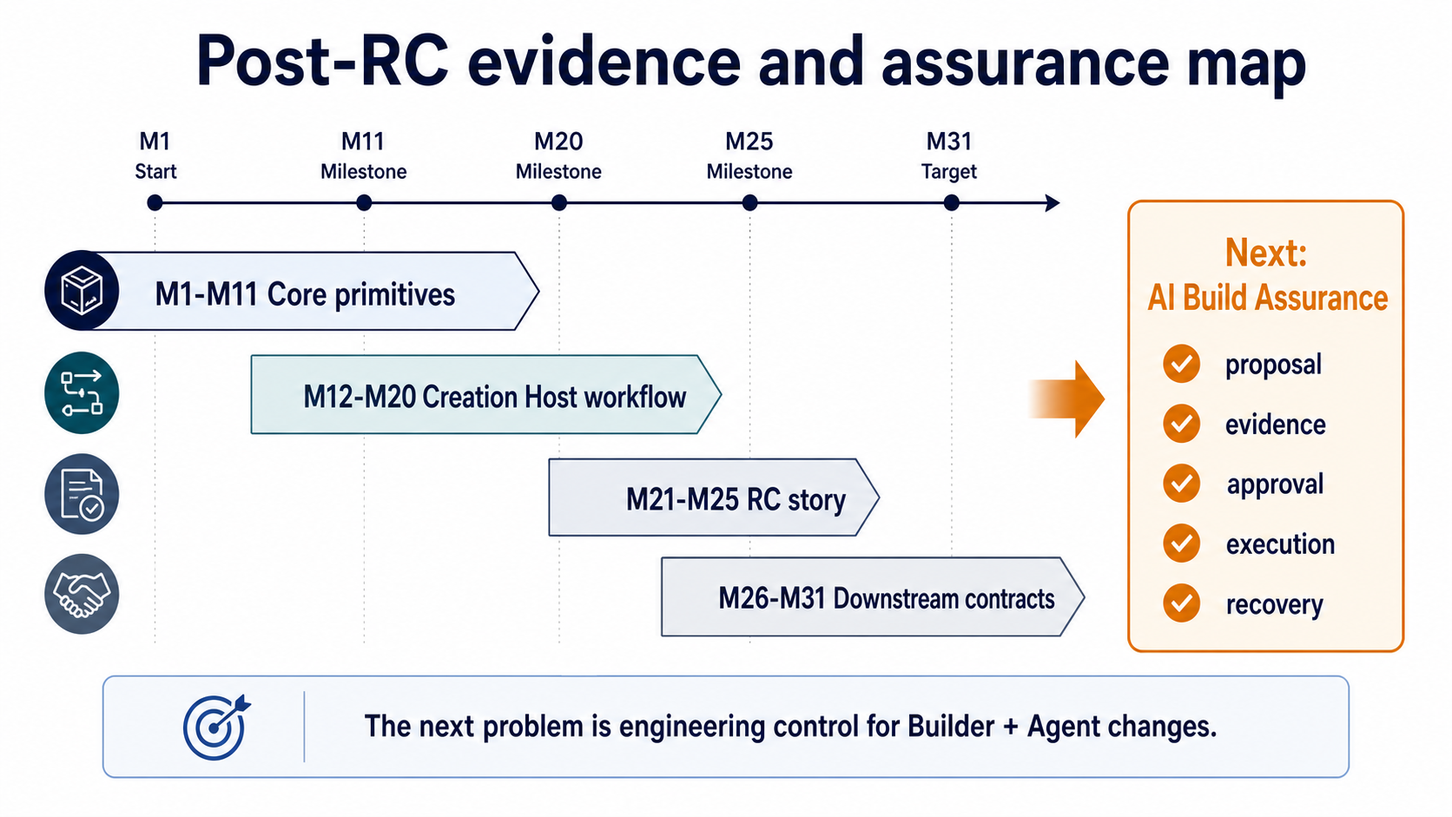
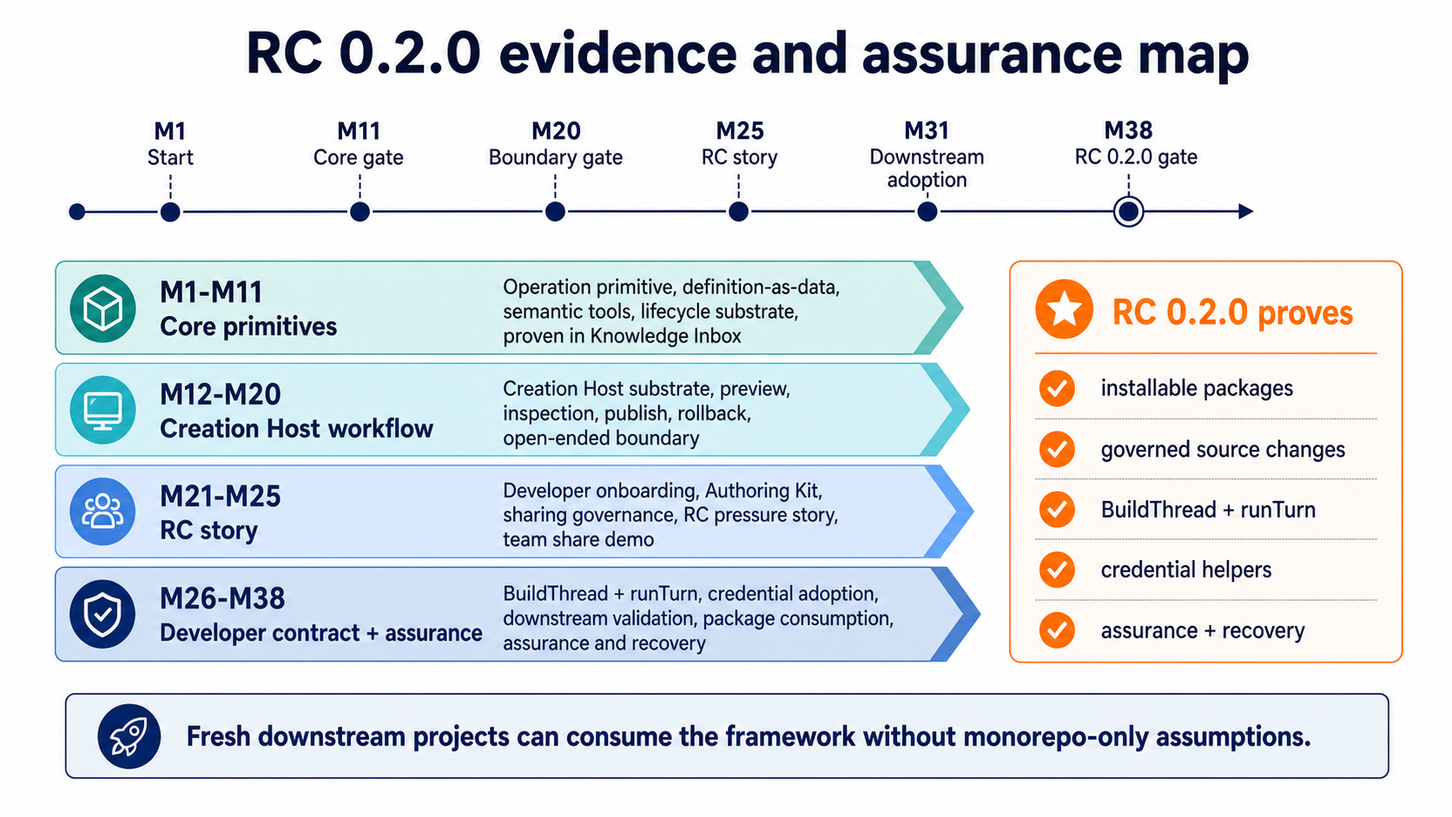
docs: refine rc 0.2.0 team share

diff --git a/docs/architecture/team-share-demo.zh-CN.md b/docs/architecture/team-share-demo.zh-CN.md
@@ -1,12 +1,12 @@
 # Pneuma 团队分享材料
 
-**日期：** 2026-05-10
-**状态：** M37 之后的当前 post-RC 团队分享材料
+**日期：** 2026-05-11
+**状态：** RC 0.2.0 团队分享材料；tag 等待 owner 确认
 **受众：** 对 Pneuma 零预备知识、但理解普通软件产品的团队成员
 **形式：** 45-60 分钟团队分享，可选本地 demo
 **English version:** [team-share-demo.md](./team-share-demo.md)
 
-这是一份在 RC 接受和 M26-M38 stabilization、Build Assurance adoption 以及 package-consumption gate 之后，从顶层目标向下解释 Pneuma 的团队同步材料。
+这是一份在 RC 接受、M26-M38 stabilization、Build Assurance adoption、package-consumption gating 以及 fresh downstream validation 之后，从顶层目标向下解释 Pneuma 的团队同步材料。
 
 如果是 Developer 自己第一次阅读，先从 [从这里开始：构建 Creation Host](../developer/start-here.zh-CN.md) 进入。这份文档用于团队讨论。
 
@@ -26,6 +26,13 @@ End User 使用 Published Application。
 ```text
 Pneuma 不是在证明 agent 会改文件。
 Pneuma 在证明 app evolution 可以成为一个受治理的软件 primitive。
+```
+
+0.2.0 这一版需要额外记住的是：
+
+```text
+framework 现在可以被一个全新的下游 Creation Host 作为 package 消费。
+剩下的问题是 productization，而不是核心模型是否自洽。
 ```
 
 ## 1. 为什么需要这个项目
@@ -176,19 +183,22 @@ lifecycle remains a runtime subsystem
 | **M21-M25** | Developer onboarding、Authoring Kit、Sharing Governance、RC pressure、Alice/Bob/Charlie/Dave 让 RC 故事可以被解释和测试。 |
 | **M26-M38** | Code Change Lane、runtime diagnostics、HostExtension slots、AgentBackend `runTurn`、credential utilities、downstream adoption、visible/durable Build Change Assurance、approval-time review packets、recovery drill matrices、downstream adoption guidance 和 package-consumption gating 稳定了 post-RC developer contract。 |
 
-M37 当前技术健康度：
+RC 0.2.0 当前技术健康度：
 
 ```text
 bun test
-1274 pass
+1280 pass
 0 fail
-4745 expect() calls
+4755 expect() calls
 
 bun run typecheck
 exit 0
+
+bun run test:package-consumption
+exit 0
 ```
 
-这不代表 production SaaS 已完成。它代表 framework 已经有一条自洽的 developer-facing RC line，并且 post-RC contract surface 对真实 Creation Host 更清楚，包括 Builder + Agent assurance lane。
+这不代表 production SaaS 已完成。它代表 framework 已经有一条自洽的 developer-facing RC line、一个 package-consumable 的 0.2.0 contract surface，以及面向真实 Creation Host 的 Builder + Agent assurance lane。
 
 ## 7. Demo 路径
 
@@ -256,7 +266,7 @@ Walkthrough：
 
 > M18 证明四制品 workflow 可以承载 open-ended UI/module state。ADR-0031 和 ADR-0035 保持 framework 边界诚实：这些仍是 Host-owned artifacts，除非未来 ADR 把某种重复形态提升为 framework definition rows。
 
-### Walkthrough C：Post-RC developer contracts
+### Walkthrough C：RC 0.2.0 developer contract
 
 打开这些文档：
 
@@ -266,9 +276,18 @@ Walkthrough：
 4. [Runtime Composition 中文版](../developer/runtime-composition.zh-CN.md) - mode、boot options、internal token pattern、readiness helpers。
 5. [HostExtension Slots 中文版](../developer/host-extension-slots.zh-CN.md) - portable Host-owned extension bundles。
 6. [Host Credential Broker Utilities 中文版](../developer/credential-broker.zh-CN.md) - session cookies、OAuth state、credential refs、no-secret rebinding evidence。
-7. [AI Build Assurance DDD Review 中文版](./spec/ai-build-assurance-domain-review.zh-CN.md) - M37 之后当前的 assurance-domain 锚点。
+7. [AI Build Assurance DDD Review 中文版](./spec/ai-build-assurance-domain-review.zh-CN.md) - 当前已进入 RC 0.2.0 contract 的 assurance-domain 锚点。
 8. [Build Assurance Adoption Guide 中文版](../developer/build-assurance-adoption.zh-CN.md) - Host 如何逐步采用 assurance cases、review packets、stores 和 recovery drills。
 9. [Downstream Validation Brief 中文版](../developer/downstream-validation-brief.zh-CN.md) - 一个新的下游项目应该构建什么、报告什么。
+10. [RC 0.2.0 Snapshot 中文版](./release-candidate-0.2.0-snapshot.zh-CN.md) - package-consumption gate、full verification 和 downstream validation evidence。
+
+0.2.0 还需要团队明确理解一件事：
+
+```text
+framework 现在可以从 monorepo 外部，被一个全新的 Bun/TypeScript Creation Host 消费。
+```
+
+package-consumption gate 会把 developer-facing packages 复制到一个 isolated 临时目录，用 `file:` dependencies 安装进一个新的 consumer，导入 focused public subpaths，运行 `scaffold-host`、运行 `doctor-host`、执行 smoke program，并 typecheck consumer。第二个全新的下游 Host，Release Radar Studio，又用同一方向验证了一次，没有报告 material framework blocker。
 
 ## 8. 推荐分享节奏
 
@@ -280,7 +299,7 @@ Walkthrough：
 | 20-30 min | 治理闭环和契约栈 | 把 primitives 映射到 authority、evidence、runtime、source-change、release。 |
 | 30-42 min | Demo A | 展示 Alice 的 Developer cognition path 和 Bob/Charlie/Dave outcomes。 |
 | 42-52 min | Demo B | 展示 open-ended app pressure。 |
-| 52-58 min | Walkthrough C | 解释 post-RC contract surface。 |
+| 52-58 min | Walkthrough C | 解释 RC 0.2.0 package-consumable contract surface。 |
 | 58-60 min | Boundary | 对齐当前证据和下一次具体下游压力测试。 |
 
 讲解规则：
@@ -310,9 +329,9 @@ Walkthrough：
 
 不是。framework 已经有正确的 authority shape 和 local/runtime hardening evidence，但 production IAM、tenant administration、secret management、retention、assignment、hosted governance workflows 和长期运营证明都属于后续 productization work。
 
-### 什么会构成下一个 release tag 的理由？
+### 什么会构成 RC 0.2.0 tag 的理由？
 
-选定一条 post-RC lane，完成 executable evidence、更新文档，并且没有新的顶层边界混淆。M32-M37 已经收口了第一段围绕受治理 Builder + Build Agent changes 的 AI Build Assurance lane。下一次 tag 应该由具体下游压力来证明，而不是默认继续增加抽象 assurance layer。
+owner 接受 verification report 时，0.2.0 tag 就有理由成立：full suite 绿、package-consumption gate 绿、文档已更新、fresh downstream validation 没有 material framework blocker。未来 tag 仍然应该由具体下游压力证明，而不是默认继续增加抽象 assurance layer。
 
 ## Useful Links
 
@@ -322,3 +341,4 @@ Walkthrough：
 - [Creation Host Model 中文版](./spec/creation-host-model.zh-CN.md)
 - [AI Build Assurance DDD Review 中文版](./spec/ai-build-assurance-domain-review.zh-CN.md)
 - [Release Candidate Snapshot 中文版](./release-candidate-snapshot.zh-CN.md)
+- [RC 0.2.0 Snapshot 中文版](./release-candidate-0.2.0-snapshot.zh-CN.md)

diff --git a/docs/architecture/team-share-demo.md b/docs/architecture/team-share-demo.md
@@ -1,12 +1,12 @@
 # Pneuma Team Share Package
 
-**Date:** 2026-05-10
-**Status:** Current post-M37 team-share package
+**Date:** 2026-05-11
+**Status:** RC 0.2.0 team-share package; tag pending owner confirmation
 **Audience:** teammates with zero Pneuma context who understand normal software products
 **Format:** 45-60 minute team share with optional local demos
 **Chinese version:** [team-share-demo.zh-CN.md](./team-share-demo.zh-CN.md)
 
-This is the top-down share package for explaining Pneuma after RC acceptance and the M26-M38 stabilization, Build Assurance adoption, and package-consumption gate work.
+This is the top-down share package for explaining Pneuma after RC acceptance, M26-M38 stabilization, Build Assurance adoption, package-consumption gating, and fresh downstream validation.
 
 For a Developer's self-serve reading path, start with [Start Here: Build A Creation Host](../developer/start-here.md). This document is for a team conversation.
 
@@ -26,6 +26,13 @@ The second sentence they should remember:
 ```text
 Pneuma is not proving that an agent can edit files.
 It is proving that app evolution can become a governed software primitive.
+```
+
+The 0.2.0-specific takeaway:
+
+```text
+The framework is now package-consumable by a fresh downstream Creation Host.
+The remaining question is productization, not whether the core model is coherent.
 ```
 
 ## 1. Why This Exists
@@ -176,19 +183,22 @@ The project did not jump directly to a polished demo. It built a proof ladder:
 | **M21-M25** | Developer onboarding, Authoring Kit, Sharing Governance, RC pressure, and Alice/Bob/Charlie/Dave made the RC story explainable and testable. |
 | **M26-M38** | Code Change Lane, runtime diagnostics, HostExtension slots, AgentBackend `runTurn`, credential utilities, downstream adoption, visible/durable Build Change Assurance, approval-time review packets, recovery drill matrices, downstream adoption guidance, and package-consumption gating stabilized the post-RC developer contract. |
 
-Current technical health from M37:
+Current technical health for RC 0.2.0:
 
 ```text
 bun test
-1274 pass
+1280 pass
 0 fail
-4745 expect() calls
+4755 expect() calls
 
 bun run typecheck
 exit 0
+
+bun run test:package-consumption
+exit 0
 ```
 
-This does not mean production SaaS is done. It means the framework has a coherent developer-facing RC line and a clearer post-RC contract surface for real Creation Hosts, including the Builder + Agent assurance lane.
+This does not mean production SaaS is done. It means the framework has a coherent developer-facing RC line, a package-consumable 0.2.0 contract surface, and a clearer Builder + Agent assurance lane for real Creation Hosts.
 
 ## 7. Demo Path
 
@@ -256,7 +266,7 @@ Key line:
 
 > M18 proves the four-artifact workflow can carry open-ended UI/module state. ADR-0031 and ADR-0035 keep the boundary honest: these are Host-owned artifacts unless a later ADR promotes a repeated shape into framework definition rows.
 
-### Walkthrough C: Post-RC developer contracts
+### Walkthrough C: RC 0.2.0 developer contract
 
 Open these documents:
 
@@ -266,9 +276,18 @@ Open these documents:
 4. [Runtime Composition](../developer/runtime-composition.md) - mode, boot options, internal token pattern, readiness helpers.
 5. [HostExtension Slots](../developer/host-extension-slots.md) - portable Host-owned extension bundles.
 6. [Host Credential Broker Utilities](../developer/credential-broker.md) - session cookies, OAuth state, credential refs, no-secret rebinding evidence.
-7. [AI Build Assurance DDD Review](./spec/ai-build-assurance-domain-review.md) - the current assurance-domain anchor after M37.
+7. [AI Build Assurance DDD Review](./spec/ai-build-assurance-domain-review.md) - the current assurance-domain anchor now carried into the RC 0.2.0 contract.
 8. [Build Assurance Adoption Guide](../developer/build-assurance-adoption.md) - how a Host adopts assurance cases, review packets, stores, and recovery drills incrementally.
 9. [Downstream Validation Brief](../developer/downstream-validation-brief.md) - what a fresh downstream project should build and report.
+10. [RC 0.2.0 Snapshot](./release-candidate-0.2.0-snapshot.md) - package-consumption gate, full verification, and downstream validation evidence.
+
+0.2.0 adds one more thing the team should explicitly understand:
+
+```text
+The framework can now be consumed from outside the monorepo by a fresh Bun/TypeScript Creation Host.
+```
+
+The package-consumption gate copies the developer-facing packages to an isolated temporary directory, installs them into a new consumer with `file:` dependencies, imports focused public subpaths, runs `scaffold-host`, runs `doctor-host`, executes a smoke program, and typechecks the consumer. A second fresh downstream Host, Release Radar Studio, then validated the same direction with no material framework blocker.
 
 ## 8. Recommended Share Run
 
@@ -280,7 +299,7 @@ Open these documents:
 | 20-30 min | Governed loop and contract stack | Map primitives to authority, evidence, runtime, source-change, and release. |
 | 30-42 min | Demo A | Show Alice's Developer cognition path and Bob/Charlie/Dave outcomes. |
 | 42-52 min | Demo B | Show open-ended app pressure. |
-| 52-58 min | Walkthrough C | Explain the post-RC contract surface. |
+| 52-58 min | Walkthrough C | Explain the RC 0.2.0 package-consumable contract surface. |
 | 58-60 min | Boundary | Align on the current evidence and the next concrete downstream pressure test. |
 
 Presenter rules:
@@ -310,9 +329,9 @@ Because direct file edits make UI action, Agent tool-call, policy, approval evid
 
 No. The framework now has the right authority shape and local/runtime hardening evidence, but production IAM, tenant administration, secret management, retention, assignment, hosted governance workflows, and long-running operational proof are later productization work.
 
-### What would justify the next release tag?
+### What would justify tagging RC 0.2.0?
 
-A chosen post-RC lane should close with executable evidence, updated docs, and no new top-level boundary confusion. M32-M37 closed the first AI Build Assurance lane around governed Builder + Build Agent changes. The next tag should be justified by concrete downstream pressure, not by adding another abstract assurance layer by default.
+The 0.2.0 tag is justified when the owner accepts the verification report: full suite green, package-consumption gate green, docs updated, and fresh downstream validation reporting no material framework blocker. Future tags should still be justified by concrete downstream pressure, not by adding another abstract assurance layer by default.
 
 ## Useful Links
 
@@ -322,3 +341,4 @@ A chosen post-RC lane should close with executable evidence, updated docs, and n
 - [Creation Host Model](./spec/creation-host-model.md)
 - [AI Build Assurance DDD Review](./spec/ai-build-assurance-domain-review.md)
 - [Release Candidate Snapshot](./release-candidate-snapshot.md)
+- [RC 0.2.0 Snapshot](./release-candidate-0.2.0-snapshot.md)

diff --git a/README.md b/README.md
@@ -11,13 +11,13 @@ pneuma-framework
 
 ## Current Status
 
-The project has reached its first developer-facing release candidate line:
+The project has reached its first developer-facing release candidate line. The latest entry is prepared and verified; the tag is pending owner confirmation:
 
 ```text
-pneuma-rc-0.1.0 -> pneuma-rc-0.1.1 -> pneuma-rc-0.1.2 -> pneuma-rc-0.1.3
+pneuma-rc-0.1.0 -> pneuma-rc-0.1.1 -> pneuma-rc-0.1.2 -> pneuma-rc-0.1.3 -> pneuma-rc-0.2.0
 ```
 
-`pneuma-rc-0.1.0` was the first accepted RC. `pneuma-rc-0.1.1` surfaced hidden runtime, authoring, and rollout conventions discovered while building an external DevBoard Studio Creation Host. `pneuma-rc-0.1.2` added BuildThread as the framework-owned semantic transcript for Builder conversation. `pneuma-rc-0.1.3` added the executable Code Change Lane for governed draft source changes.
+`pneuma-rc-0.1.0` was the first accepted RC. `pneuma-rc-0.1.1` surfaced hidden runtime, authoring, and rollout conventions discovered while building an external DevBoard Studio Creation Host. `pneuma-rc-0.1.2` added BuildThread as the framework-owned semantic transcript for Builder conversation. `pneuma-rc-0.1.3` added the executable Code Change Lane for governed draft source changes. `pneuma-rc-0.2.0` is the prepared developer-contract roll-up: M26-M38, focused public package subpaths, downstream-safe `doctor-host`, and a package-consumption gate for fresh external Hosts.
 
 The RC line and post-RC stabilization evidence now include:
 
@@ -43,6 +43,7 @@ The RC line and post-RC stabilization evidence now include:
 - M35: Build Change Review Packet.
 - M36: Recovery Drill Matrix.
 - M37: Build Assurance Downstream Readiness.
+- M38: Package Consumption + RC 0.2.0 Gate.
 
 The RC claim is narrow: the core model is coherent enough for Developers to start building Creation Hosts and pressure-testing real product shapes. It is not a production SaaS platform.
 
@@ -115,6 +116,8 @@ Start here if you are a Developer:
 - [`docs/developer/upgrading-to-rc-0.1.1.md`](./docs/developer/upgrading-to-rc-0.1.1.md) — downstream upgrade checklist from RC 0.1.0 to RC 0.1.1.
 - [`docs/developer/upgrading-to-rc-0.1.2.md`](./docs/developer/upgrading-to-rc-0.1.2.md) — downstream upgrade checklist for adopting BuildThread.
 - [`docs/developer/upgrading-to-rc-0.1.3.md`](./docs/developer/upgrading-to-rc-0.1.3.md) — downstream upgrade checklist for adopting Code Change Lane.
+- [`docs/architecture/release-candidate-0.2.0-snapshot.md`](./docs/architecture/release-candidate-0.2.0-snapshot.md) — package-consumable developer-contract gate and verification evidence.
+- [`docs/developer/upgrading-to-rc-0.2.0.md`](./docs/developer/upgrading-to-rc-0.2.0.md) — downstream upgrade checklist for adopting the current focused subpaths and 0.2.0 utility surface.
 - [`docs/developer/build-thread.md`](./docs/developer/build-thread.md) — semantic Builder conversation transcript primitive for chat-driven Hosts.
 - [`docs/developer/code-change-lane.md`](./docs/developer/code-change-lane.md) — governed draft source-change proposal/apply/receipt lane.
 - [`docs/developer/build-assurance.md`](./docs/developer/build-assurance.md) — risk/readiness/evidence cases and the local assurance case store.
@@ -172,4 +175,4 @@ Chinese readers can use matching `.zh-CN.md` documents under `docs/developer/` a
 
 ## Current Caveat
 
-This is not a production SaaS release. Production IAM, hosted deployment, durable credential storage, compliance audit storage, zero-downtime traffic switching, Runtime Agent productization, hot reload, and broad Pneuma 2.x dogfood remain post-RC work unless a concrete milestone deliberately pulls one forward. M31 is credential-helper adoption evidence, not a hosted credential service; M37 is Build Assurance adoption readiness, not a compliance backend.
+This is not a production SaaS release. Production IAM, hosted deployment, durable credential storage, compliance audit storage, zero-downtime traffic switching, Runtime Agent productization, hot reload, and broad Pneuma 2.x dogfood remain post-RC work unless a concrete milestone deliberately pulls one forward. M31 is credential-helper adoption evidence, not a hosted credential service; M37 is Build Assurance adoption readiness, not a compliance backend; M38/RC 0.2.0 is package-consumption evidence, not a hosted distribution product.

diff --git a/docs/architecture/release-candidate-0.2.0-snapshot.md b/docs/architecture/release-candidate-0.2.0-snapshot.md
@@ -12,7 +12,7 @@ It is not a new product direction. It packages the current Developer-facing cont
 
 Prepare RC 0.2.0 as a **developer-contract release train**:
 
-- collect M26-M37 into one versioned contract;
+- collect M26-M38 into one versioned contract;
 - keep the four-layer model unchanged;
 - keep Creation Host product choices Host-owned;
 - expose local package consumption as an explicit test gate;
@@ -29,7 +29,7 @@ Prepare RC 0.2.0 as a **developer-contract release train**:
 | Agent backend turns | `AgentBackend.runTurn` over BuildThread source-of-truth turns. |
 | Credential utilities | Session cookie hashing, OAuth state, callback binding, credential refs, no-secret rebinding evidence, provider-shaped test helpers. |
 | Build Assurance | Review packets, assurance cases, durable case store, recovery drill matrix, and adoption guide. |
-| Package boundary | Developer-facing packages use local-consumable `file:` internal dependencies and a repo-external smoke gate. |
+| Package boundary | Developer-facing packages use local-consumable `file:` internal dependencies, focused public subpath exports, downstream-safe CLI diagnostics, and a repo-external smoke gate. |
 
 ## Package Consumption Gate
 
@@ -56,8 +56,10 @@ This test exists because fresh downstream projects should fail on real framework
 
 Accepted:
 
-- M26-M37 are no longer just chronological milestone evidence; they are part of the current Developer contract.
+- M26-M38 are no longer just chronological milestone evidence; they are part of the current Developer contract.
 - `workspace:*` is no longer required in developer-facing package manifests for local external consumption.
+- Focused public subpath exports are the preferred developer-facing import surface for Host contracts.
+- `doctor-host` can run from a fresh downstream install without eagerly importing unrelated core modules.
 - Provider-named BuildThread packing helpers remain available only as deprecated compatibility; provider-neutral `packBuildTurnsForRoleContent` is the core path.
 - The downstream upgrade path is documented directly in [Upgrading To RC 0.2.0](../developer/upgrading-to-rc-0.2.0.md).
 
@@ -93,5 +95,12 @@ Results:
 - typecheck: passed;
 - full suite: `1280 pass`, `0 fail`, `4755 expect() calls` across `194 files`;
 - `git diff --check`: passed.
+
+Fresh downstream validation:
+
+- a new temporary downstream Creation Host, Release Radar Studio, was built from an exported RC 0.2.0 candidate directory;
+- it consumed `@pneuma-framework/core-domain`, `@pneuma-framework/core`, `@pneuma-framework/runtime`, and `@pneuma-framework/cli` through `file:` dependencies;
+- downstream `typecheck`, unit tests, `doctor-host`, smoke runner, and a live HTTP flow passed;
+- the downstream gap log reported no material framework blocker. The only accepted follow-up was documentation-level: when validating an exported non-git candidate directory, record the candidate artifact path/version instead of a commit hash.
 
 Tagging remains a separate owner decision after this verification report.

diff --git a/docs/architecture/release-candidate-0.2.0-snapshot.zh-CN.md b/docs/architecture/release-candidate-0.2.0-snapshot.zh-CN.md
@@ -12,7 +12,7 @@
 
 准备把 RC 0.2.0 作为 **developer-contract release train**：
 
-- 将 M26-M37 收拢成一个有版本号的 contract；
+- 将 M26-M38 收拢成一个有版本号的 contract；
 - 四层模型保持不变；
 - Creation Host 的产品选择继续属于 Host；
 - 把 local package consumption 变成显式 test gate；
@@ -29,7 +29,7 @@
 | Agent backend turns | 基于 BuildThread source-of-truth turns 的 `AgentBackend.runTurn`。 |
 | Credential utilities | Session cookie hashing、OAuth state、callback binding、credential refs、no-secret rebinding evidence、provider-shaped test helpers。 |
 | Build Assurance | Review packets、assurance cases、durable case store、recovery drill matrix 和 adoption guide。 |
-| Package boundary | Developer-facing packages 使用本地可消费的 `file:` internal dependencies，并加入 repo-external smoke gate。 |
+| Package boundary | Developer-facing packages 使用本地可消费的 `file:` internal dependencies、focused public subpath exports、downstream-safe CLI diagnostics，并加入 repo-external smoke gate。 |
 
 ## Package Consumption Gate
 
@@ -56,8 +56,10 @@ bun run test:package-consumption
 
 已采纳：
 
-- M26-M37 不再只是 chronological milestone evidence，而是当前 Developer contract 的一部分。
+- M26-M38 不再只是 chronological milestone evidence，而是当前 Developer contract 的一部分。
 - developer-facing package manifests 不再要求下游通过 `workspace:*` 才能本地外部消费。
+- focused public subpath exports 是 Host contracts 的推荐开发者导入面。
+- `doctor-host` 可以从一个全新的下游安装中运行，不会急切导入无关 core 模块。
 - 带 provider 名称的 BuildThread packing helpers 只作为 deprecated compatibility 保留；core 路径是 provider-neutral `packBuildTurnsForRoleContent`。
 - 下游升级路径写入 [Upgrading To RC 0.2.0](../developer/upgrading-to-rc-0.2.0.zh-CN.md)。
 
@@ -93,5 +95,12 @@ git diff --check
 - typecheck：通过；
 - full suite：`1280 pass`、`0 fail`、`4755 expect() calls`，覆盖 `194 files`；
 - `git diff --check`：通过。
+
+Fresh downstream validation：
+
+- 一个新的临时下游 Creation Host，Release Radar Studio，从导出的 RC 0.2.0 candidate 目录开始构建；
+- 它通过 `file:` dependencies 消费 `@pneuma-framework/core-domain`、`@pneuma-framework/core`、`@pneuma-framework/runtime` 和 `@pneuma-framework/cli`；
+- 下游 `typecheck`、unit tests、`doctor-host`、smoke runner 和 live HTTP flow 均通过；
+- 下游 gap log 没有报告 material framework blocker。唯一采纳的 follow-up 是文档级：验证导出的 non-git candidate 目录时，记录 candidate artifact path/version，而不是 commit hash。
 
 tag 仍是这份 verification report 之后单独的 owner decision。

diff --git a/PRODUCT.md b/PRODUCT.md
@@ -26,13 +26,13 @@ Developer-facing framework for building local/reference Creation Hosts,
 with enough governance and assurance primitives to pressure-test real product shapes.
 ```
 
-The first release-candidate line is accepted through `pneuma-rc-0.1.3`:
+The release-candidate line is accepted through `pneuma-rc-0.1.3`, and `pneuma-rc-0.2.0` is prepared as the first package-consumable developer-contract roll-up:
 
 ```text
-pneuma-rc-0.1.0 -> 0.1.1 -> 0.1.2 -> 0.1.3
+pneuma-rc-0.1.0 -> 0.1.1 -> 0.1.2 -> 0.1.3 -> 0.2.0
 ```
 
-Post-RC work M26-M37 then tightened the developer contract without cutting a new tag:
+Post-RC work M26-M38 then tightened the developer contract:
 
 - Code Change Lane hardening;
 - Runtime Diagnostic Surface;
@@ -40,6 +40,7 @@ Post-RC work M26-M37 then tightened the developer contract without cutting a new
 - AgentBackend `runTurn`;
 - Host Credential Broker utilities and downstream adoption;
 - Build Change Assurance, visible/durable cases, approval-time review packets, recovery drills, and downstream adoption guidance.
+- package-consumption gating, focused public subpaths, and downstream-safe `doctor-host`.
 
 It should let a Developer understand and run:
 
@@ -82,6 +83,7 @@ The current evidence line is documented in:
 - [`docs/architecture/milestone-25-snapshot.md`](./docs/architecture/milestone-25-snapshot.md) — Alice Creation Host prototype.
 - [`docs/architecture/milestone-31-snapshot.md`](./docs/architecture/milestone-31-snapshot.md) — downstream credential-helper adoption pressure.
 - [`docs/architecture/milestone-37-snapshot.md`](./docs/architecture/milestone-37-snapshot.md) — Build Assurance downstream readiness.
+- [`docs/architecture/release-candidate-0.2.0-snapshot.md`](./docs/architecture/release-candidate-0.2.0-snapshot.md) — package-consumption gate, full verification, and 0.2.0 release-train boundary.
 - [`docs/architecture/adr/0031-open-ended-definition-artifact-boundary.md`](./docs/architecture/adr/0031-open-ended-definition-artifact-boundary.md) — accepted Host-owned open-ended artifact boundary.
 - [`docs/architecture/spec/ai-build-assurance-domain-review.md`](./docs/architecture/spec/ai-build-assurance-domain-review.md) — assurance domain anchor for Builder + Build Agent changes.
 - [`docs/developer/downstream-validation-brief.md`](./docs/developer/downstream-validation-brief.md) — handoff brief for the next fresh downstream validation project.

diff --git a/docs/architecture/README.md b/docs/architecture/README.md
@@ -25,7 +25,7 @@ These are the long-lived docs to keep in sync first:
 |---|---|
 | [Developer Start Here](../developer/start-here.md) / [中文](../developer/start-here.zh-CN.md) | Five-image outside-in entry for Developers building Creation Hosts. |
 | [Downstream Validation Brief](../developer/downstream-validation-brief.md) / [中文](../developer/downstream-validation-brief.zh-CN.md) | Fresh downstream handoff: mission, reading order, deliverables, validation commands, and gap-log template. |
-| [Team Share Package](./team-share-demo.md) / [中文](./team-share-demo.zh-CN.md) | Zero-context team explanation from project goal to AI Build Assurance. |
+| [Team Share Package](./team-share-demo.md) / [中文](./team-share-demo.zh-CN.md) | Zero-context team explanation from project goal to RC 0.2.0 developer-contract evidence. |
 | [Creation Host Model](./spec/creation-host-model.md) / [中文](./spec/creation-host-model.zh-CN.md) | Top-level product/domain boundary: Framework -> Creation Host -> Generated Application -> Published Application. |
 | [AI Build Assurance DDD Review](./spec/ai-build-assurance-domain-review.md) / [中文](./spec/ai-build-assurance-domain-review.zh-CN.md) | Current DDD anchor for Builder + Build Agent engineering control. |
 | [Release Candidate Snapshot](./release-candidate-snapshot.md) / [中文](./release-candidate-snapshot.zh-CN.md) | Why `pneuma-rc-0.1.0` was accepted. |
